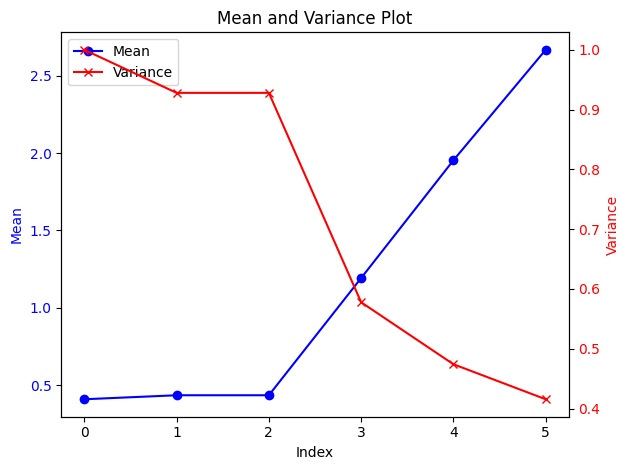
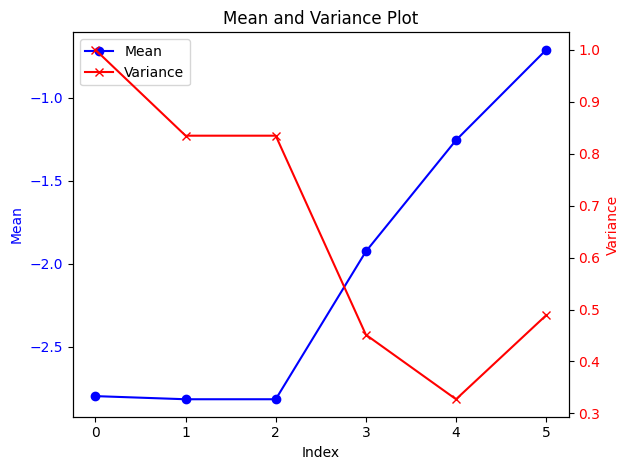
tests+ mid refactor traita

diff --git a/chewc/trait.py b/chewc/trait.py
@@ -1,19 +1,15 @@
 # AUTOGENERATED! DO NOT EDIT! File to edit: ../nbs/02_trait.ipynb.
 
 # %% auto 0
-__all__ = ['select_qtl_loci', 'generate_marker_effects', 'calculate_genetic_variance', 'scale_marker_effects', 'TraitA']
+__all__ = ['select_qtl_loci', 'generate_marker_effects', 'calculate_genetic_variance', 'TraitA']
 
 # %% ../nbs/02_trait.ipynb 4
+from .core import *
 import torch
 import attr
 from typing import Tuple, Optional, List
-
-#| export
-
-from .core import *
-
-import torch
-import attr
+from fastcore.test import *
+import matplotlib.pyplot as plt
 
 def select_qtl_loci(num_qtl_per_chromosome: int, genome:Genome) -> torch.Tensor:
     """
@@ -29,6 +25,11 @@ def select_qtl_loci(num_qtl_per_chromosome: int, genome:Genome) -> torch.Tensor:
     torch.Tensor: A boolean tensor indicating which loci are QTLs. 
                   Shape: (number_chromosomes, loci_per_chromosome)
     """
+    
+    assert num_qtl_per_chromosome <= genome.loci_per_chromosome, "too many qtls for this trait given your Genome object"
+    assert num_qtl_per_chromosome > 0, "you need at least 1 QTL per chromosome"
+    
+
     qtl_indices = []
     for i in range(genome.number_chromosomes):
         # Randomly sample indices for QTLs on the current chromosome
@@ -42,7 +43,7 @@ def select_qtl_loci(num_qtl_per_chromosome: int, genome:Genome) -> torch.Tensor:
     
     return torch.stack(qtl_indices)
 
-# %% ../nbs/02_trait.ipynb 7
+# %% ../nbs/02_trait.ipynb 5
 def generate_marker_effects(qtl_map: torch.Tensor, mean: float = 0.0, variance: float = 1.0) -> torch.Tensor:
     """
     Generates random marker effects for QTLs, drawn from a normal distribution.
@@ -100,27 +101,7 @@ def calculate_genetic_variance(founder_pop: torch.Tensor, marker_effects: torch.
 
     return genetic_variance
 
-def scale_marker_effects(marker_effects: torch.Tensor, 
-                         initial_variance: float, 
-                         desired_variance: float) -> torch.Tensor:
-    """
-    Scales marker effects to achieve a desired genetic variance.
-
-    Args:
-        marker_effects (torch.Tensor): The initial marker effects.
-        initial_variance (float): The genetic variance with the initial effects.
-        desired_variance (float): The desired genetic variance.
-
-    Returns:
-        torch.Tensor: The scaled marker effects.
-    """
-    scaling_factor = (desired_variance / initial_variance) ** 0.5
-    return marker_effects * scaling_factor
-
-#| hide
-
-
-
+# %% ../nbs/02_trait.ipynb 6
 @attr.s(auto_attribs=True)
 class TraitA:
     """

diff --git a/chewc/_modidx.py b/chewc/_modidx.py
@@ -33,5 +33,4 @@ d = { 'settings': { 'branch': 'main',
                              'chewc.trait.TraitA.setPheno': ('trait.html#traita.setpheno', 'chewc/trait.py'),
                              'chewc.trait.calculate_genetic_variance': ('trait.html#calculate_genetic_variance', 'chewc/trait.py'),
                              'chewc.trait.generate_marker_effects': ('trait.html#generate_marker_effects', 'chewc/trait.py'),
-                             'chewc.trait.scale_marker_effects': ('trait.html#scale_marker_effects', 'chewc/trait.py'),
                              'chewc.trait.select_qtl_loci': ('trait.html#select_qtl_loci', 'chewc/trait.py')}}}

diff --git a/chewc/crossing.py b/chewc/crossing.py
@@ -65,7 +65,7 @@ def random_crosses(population: Population,
         )
     return Population(individuals=offspring)
 
-# %% ../nbs/04_crossing.ipynb 8
+# %% ../nbs/04_crossing.ipynb 7
 def random_crosses(parent_pop:Population, n_crosses,genetic_map)-> Population:
     new_pop = []
     total_cross=n_crosses
@@ -79,6 +79,6 @@ def random_crosses(parent_pop:Population, n_crosses,genetic_map)-> Population:
     new_pop = torch.stack(new_pop)
     return new_pop
 
-# %% ../nbs/04_crossing.ipynb 10
+# %% ../nbs/04_crossing.ipynb 8
 def truncate_select(tgv):
     return torch.topk(tgv,20).indices

diff --git a/README.md b/README.md
@@ -65,20 +65,19 @@ print(genetic_values)
 print(phenotypes)
 ```
 
-    tensor([-3.9872, -2.6802, -3.2530, -2.8984, -2.7952, -1.7489, -2.8991, -2.1334,
-            -1.3709, -5.8642])
-    tensor([-2.4555, -2.0640, -2.5771, -2.7667, -2.7303, -1.9927, -0.9669, -3.4610,
-            -1.8930, -7.0445])
+    tensor([11.7284, 11.6001,  9.7972,  8.4023,  9.8967, 10.0112,  7.7677, 10.5128,
+            10.1639, 11.9934])
+    tensor([10.5428, 11.0402,  9.3920,  7.7007,  9.8136,  9.1105,  7.1924,  9.3808,
+             9.9087, 12.1152])
 
 ``` python
 qtl_map = select_qtl_loci(20, crop_genome)
 marker_fx = generate_marker_effects(qtl_map)
 
 founder_genetic_variance = calculate_genetic_variance(founder_pop,marker_fx,crop_genome)
-scaled_marker_fx = scale_marker_effects(marker_fx, founder_genetic_variance, 0.5)
 
 
-traita = TraitA(qtl_map, scaled_marker_fx,crop_genome, founder_pop,1.0,0.0)
+traita = TraitA(qtl_map, marker_fx,crop_genome, founder_pop,1.0,0.0)
 ```
 
 ``` python
@@ -86,7 +85,7 @@ traita = TraitA(qtl_map, scaled_marker_fx,crop_genome, founder_pop,1.0,0.0)
 
 means = []
 variances = []
-traita = TraitA(qtl_map, scaled_marker_fx,crop_genome, founder_pop,1.0,0.0)
+traita = TraitA(qtl_map, marker_fx,crop_genome, founder_pop,1.0,0.0)
 
 
 tgv = traita.calculate_genetic_value(founder_pop)
@@ -136,3 +135,5 @@ ax1.legend(lines_1 + lines_2, labels_1 + labels_2, loc='best')
 
 plt.show()
 ```
+
+![](index_files/figure-commonmark/cell-7-output-1.png)
